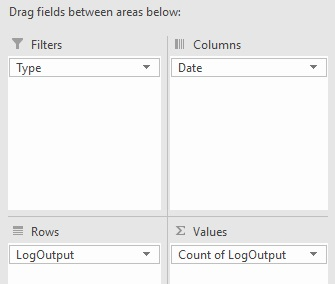
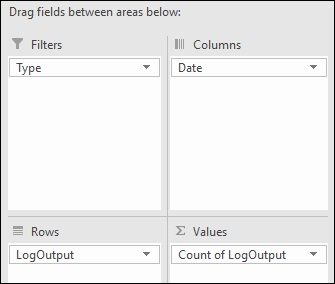
Update README and images borders.

Changed region(s): [[0.0, 0.0, 1.0, 1.0]]

diff --git a/README.md b/README.md
@@ -18,20 +18,20 @@ Accepts path of the log file intending to be parsed during execution. Will autom
 | PanGPS.log | GPS |
 | PanGPA.log | GPA |
 
+##### Usage Example:
+`python .\gp_log_parser.py .\GlobalProtectLogs\pan_gp_event.log`
+
 ##### Latency Data:
 Latency data is pulled from PanGPS logs taken during initial connection for best gateway determination. It is unclear what -1 ms means as a latency value which may sometimes be recorded. Due to this the latency statistics are calculated both, without and with -1. Line graph excludes -1 ms data entirely. 
 
 ##### Pivot Table:
 By default a pandas Pivot Table is created if any explicit Errors are in the given log. A PivotTable with Excel may be useful for analysis across the full range of logs. This can easily be created with a table from the first sheet of logs and using the PivotTable options below as a guide:
 
-<img align="left" width="191" height="140" src="https://github.com/erlaplante/GPLogParser/blob/master/images/pt-selection.jpg?raw=true">
+![alt text](https://github.com/erlaplante/GPLogParser/blob/master/images/pt-selection.jpg?raw=true)
 
 ![alt text](https://github.com/erlaplante/GPLogParser/blob/main/images/pt-create-menu.jpg?raw=true)
 
 ![alt text](https://github.com/erlaplante/GPLogParser/blob/main/images/pt-field-filter.jpg?raw=true)
-
-##### Usage Example:
-`python .\gp_log_parser.py .\GlobalProtectLogs\pan_gp_event.log`
 
 ##### Reference to attain logs:
 [GlobalProtect-Event-Log-for-Diagnosis](https://docs.paloaltonetworks.com/globalprotect/5-0/globalprotect-app-new-features/new-features-released-in-gp-agent-5_0/globalprotect-event-log-for-diagnosis.html)
